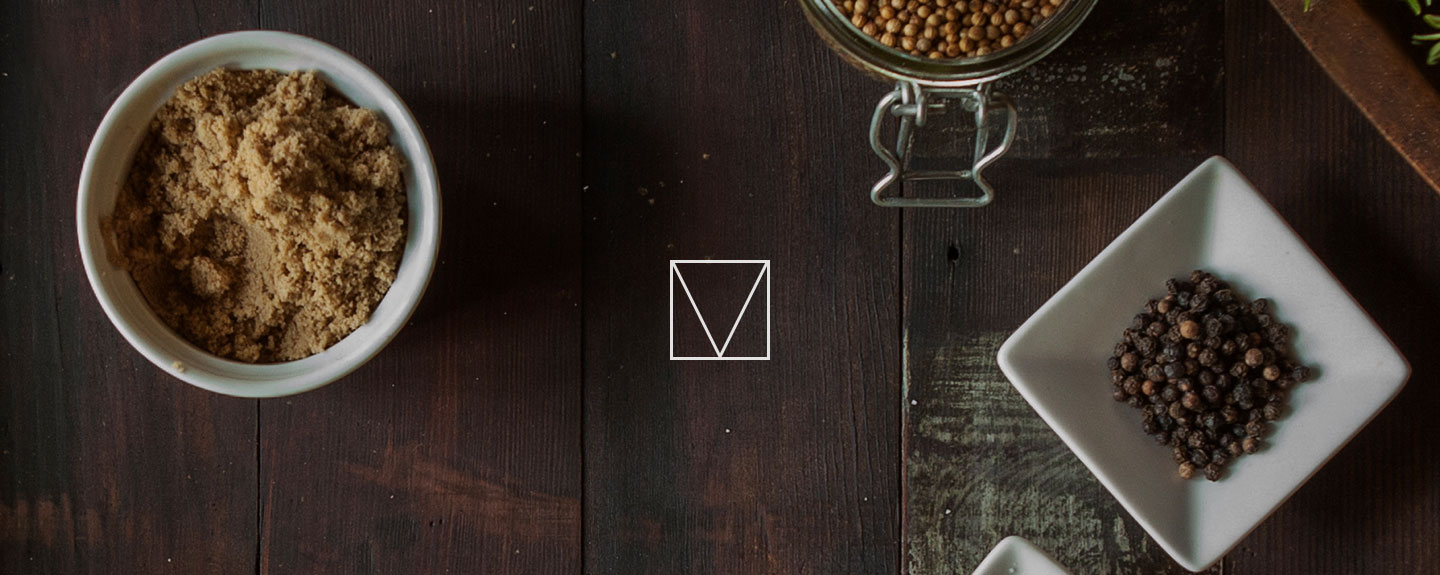
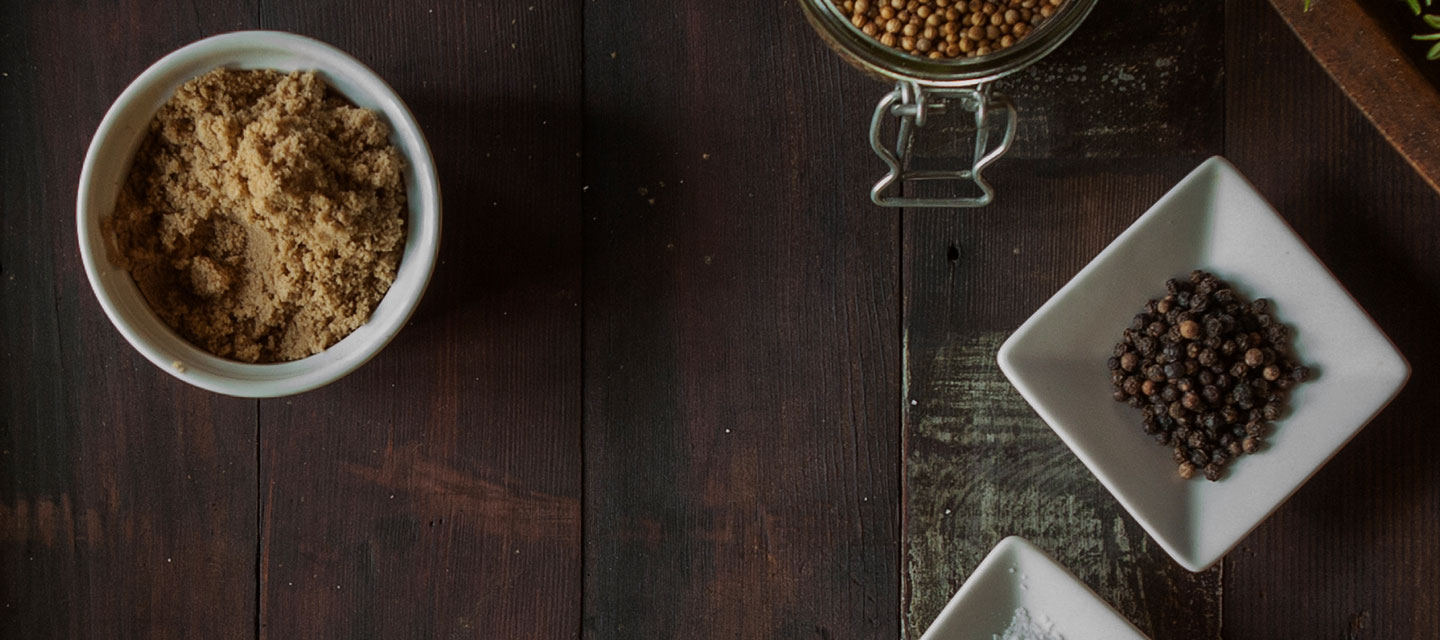
Re-export image assets without baked-in text and move figures to SVG format, along with additional CSS tweaks.

diff --git a/templates/product/index.html b/templates/product/index.html
@@ -33,7 +33,8 @@
   <body class="mdl-color--primary-dark mdl-base">
     <div class="mdl-layout mdl-js-layout mdl-layout--fixed-header">
       <header class="mdl-layout__header mdl-layout__header--waterfall mdl-layout__header--scroll">
-        <a href="/" id="logo"><img src="images/logo.png"></a>
+        <a href="/" id="logo"><img src="images/logo.svg"></a>
+        <a href="/" id="title" class="mdl-color-text--white">Your Product Site</a>
         <div class="menu">
           <nav class="mdl-navigation">
             <a href="#about" class="mdl-navigation__link active">About</a>
@@ -61,7 +62,7 @@
         </section>
         <section class="mdl-color--primary-contrast" id="products">
           <div class="heading products mdl-color-text--white">
-            <img src="images/triangles.png" class="icon"><br>
+            <img src="images/triangles.svg" class="icon"><br>
             Products
           </div>
           <div class="mdl-grid extra-spacing">
@@ -84,7 +85,7 @@
             </div>
           </div>
           <div class="heading support mdl-color-text--white">
-            <img src="images/squares.png" class="icon"><br>
+            <img src="images/squares.svg" class="icon"><br>
             Support
           </div>
         </section>
@@ -112,7 +113,7 @@
             <a href="#" class="mdl-color-text--white">Blog</a>
           </div>
           <div class="mdl-mega-footer--bottom-section">
-            <a href="#" class="mdl-color-text--grey-600">Web Starter Kit</a>
+            <a href="#" class="mdl-color-text--grey-600">Material Design Lite</a>
             <a href="#" class="mdl-color-text--grey-600">Help</a>
             <a href="#" class="mdl-color-text--grey-600">Privacy &amp; Terms</a>
           </div>

diff --git a/templates/product/styles.css b/templates/product/styles.css
@@ -13,7 +13,6 @@ html, body {
 
 header.mdl-layout__header {
   padding-top: 30%;
-  max-height: 100%;
   padding-left: 0;
   background: url('images/top.jpg') center center;
   background-size: cover;
@@ -25,7 +24,7 @@ header.mdl-layout__header #logo {
   position: absolute;
   left: 50%;
   top: 50%;
-  margin-top: -35px;
+  margin-top: -40px;
   margin-left: -35px;
   fill: #fff;
 }
@@ -37,6 +36,17 @@ header.mdl-layout__header #logo img {
 header.mdl-layout__header .menu {
   width: 100%;
   background: rgba(0,0,0,0.2);
+}
+
+header.mdl-layout__header #title {
+  position: absolute;
+  left: 20px;
+  top: 20px;
+  text-decoration: none;
+  text-transform: uppercase;
+  width: 50px;
+  line-height: 20px;
+  font-size: 13px;
 }
 
 .extra-spacing {
@@ -105,19 +115,19 @@ header.mdl-layout__header .menu {
 }
 
 .heading.products {
-  background: url('images/products.png') center center no-repeat;
+  background: url('images/products.jpg') center center no-repeat;
   background-size: cover;
 }
 
 .heading.feature-one {
   padding-top: 40%;
-  background: url('images/feature_one.png') center center no-repeat;
+  background: url('images/feature_one.jpg') center center no-repeat;
   background-size: cover;
 }
 
 .heading.feature-two {
   padding-top: 40%;
-  background: url('images/feature_two.png') center center no-repeat;
+  background: url('images/feature_two.jpg') center center no-repeat;
   background-size: cover;
 }
 
@@ -145,6 +155,10 @@ header.mdl-layout__header .menu {
   header.mdl-layout__header #logo {
     width: 40px;
     margin-left: -20px;
+  }
+  header.mdl-layout__header #title {
+    font-size: 12px;
+    line-height: 16px;
   }
   .mdl-layout__header .mdl-navigation__link {
     line-height: 52px;
